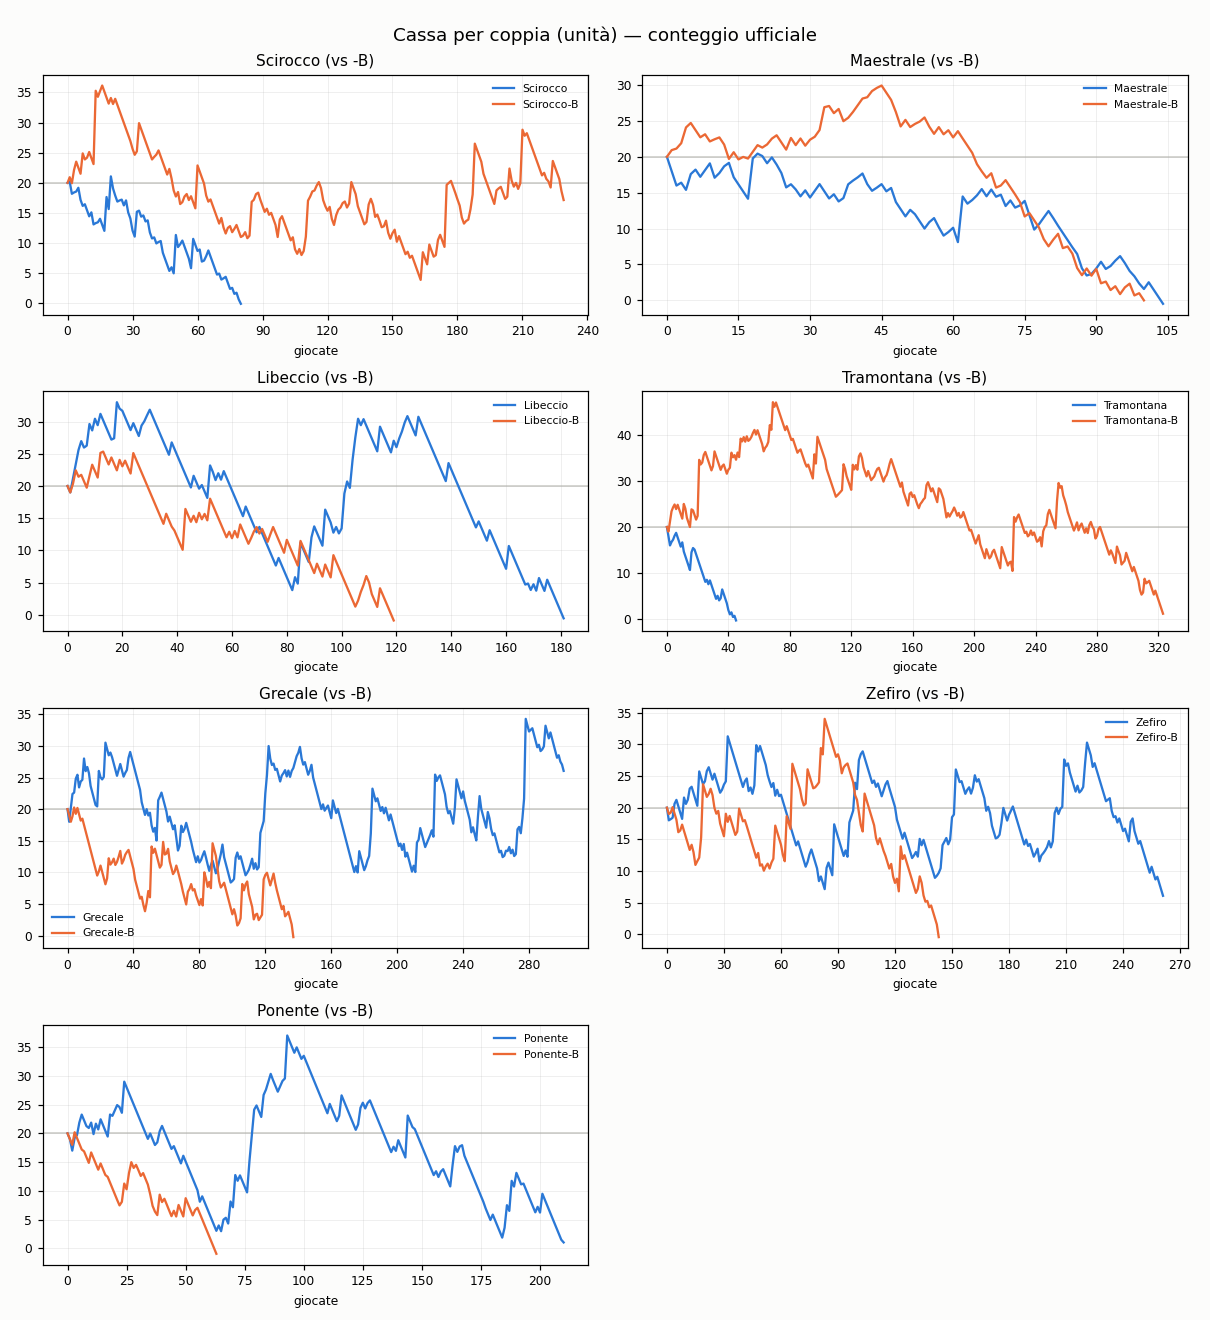
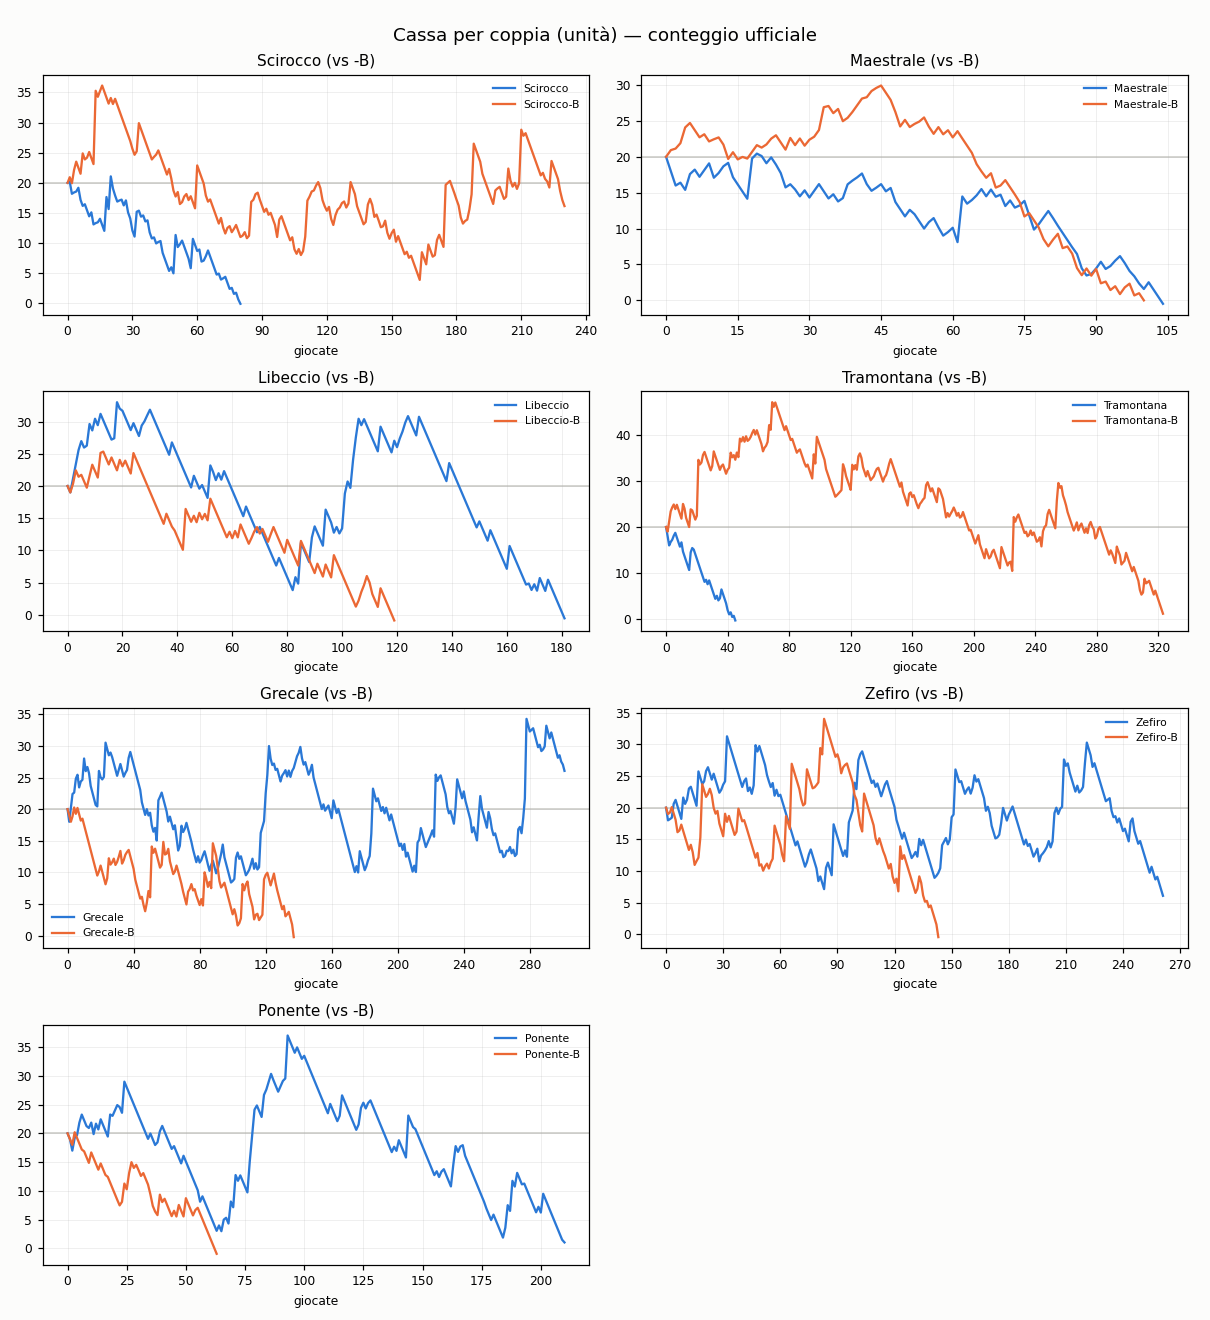
aggiornamento 2026-07-25 19:56 UTC

diff --git a/README.md b/README.md
@@ -37,9 +37,9 @@ scala in unità). Non indichiamo quale.
 
 ## Grafici
 
-![Coppie: dati completi vs ridotti](https://raw.githubusercontent.com/Kitem19/ippica-track-record/main/charts/equity_pairs.png?v=4b922f13)
+![Coppie: dati completi vs ridotti](https://raw.githubusercontent.com/Kitem19/ippica-track-record/main/charts/equity_pairs.png?v=5e5bf558)
 
-![Delta per coppia](https://raw.githubusercontent.com/Kitem19/ippica-track-record/main/charts/coppie_delta.png?v=29a1f8a3)
+![Delta per coppia](https://raw.githubusercontent.com/Kitem19/ippica-track-record/main/charts/coppie_delta.png?v=a813c648)
 
 ### Come leggere i grafici
 
@@ -56,7 +56,7 @@ scala in unità). Non indichiamo quale.
 
 _Poche giornate: numeri ancora rumorosi, si conclude a fine fase (31/7)._
 
-- **Scirocco**: dati ridotti avanti di 17,2u — qui gli extra non aiutano
+- **Scirocco**: dati ridotti avanti di 16,2u — qui gli extra non aiutano
 - **Maestrale**: in sostanziale pareggio — troppo presto per dire
 - **Libeccio**: in sostanziale pareggio — troppo presto per dire
 - **Tramontana**: in sostanziale pareggio — troppo presto per dire
@@ -69,12 +69,12 @@ _Poche giornate: numeri ancora rumorosi, si conclude a fine fase (31/7)._
 | Sistema | Cassa (u) | P/L (u) | Selezioni | Escluse | Stato |
 |---|---|---|---|---|---|
 | Grecale | 26,1 | +6,1 | 301 | 4 | 🟢 |
-| Scirocco-B | 17,1 | -2,9 | 229 | 0 | 🟢 |
+| Scirocco-B | 16,1 | -3,9 | 230 | 0 | 🟢 |
 | Zefiro | 6,1 | -13,9 | 261 | 8 | ⏸ |
 | Tramontana-B | 1,2 | -18,8 | 323 | 12 | ⏸ |
 | Ponente | 1,0 | -19,0 | 210 | 28 | 🟢 |
 | Maestrale-B | 0,0 | -20,0 | 100 | 234 | 🛑 |
-| Scirocco | 0,0 | -20,1 | 80 | 250 | 🛑 |
+| Scirocco | 0,0 | -20,1 | 80 | 251 | 🛑 |
 | Grecale-B | 0,0 | -20,2 | 137 | 173 | 🛑 |
 | Tramontana | 0,0 | -20,3 | 45 | 305 | 🛑 |
 | Zefiro-B | 0,0 | -20,5 | 143 | 70 | 🛑 |
@@ -83,7 +83,7 @@ _Poche giornate: numeri ancora rumorosi, si conclude a fine fase (31/7)._
 | Libeccio-B | 0,0 | -20,9 | 119 | 178 | 🛑 |
 | Ponente-B | 0,0 | -21,0 | 63 | 84 | 🛑 |
 
-_Aggiornato: 25/07 21:51_
+_Aggiornato: 25/07 21:56_
 ---
 *Nessuna delle informazioni qui pubblicate costituisce consiglio di gioco.
 Il gioco può causare dipendenza — 18+.*
